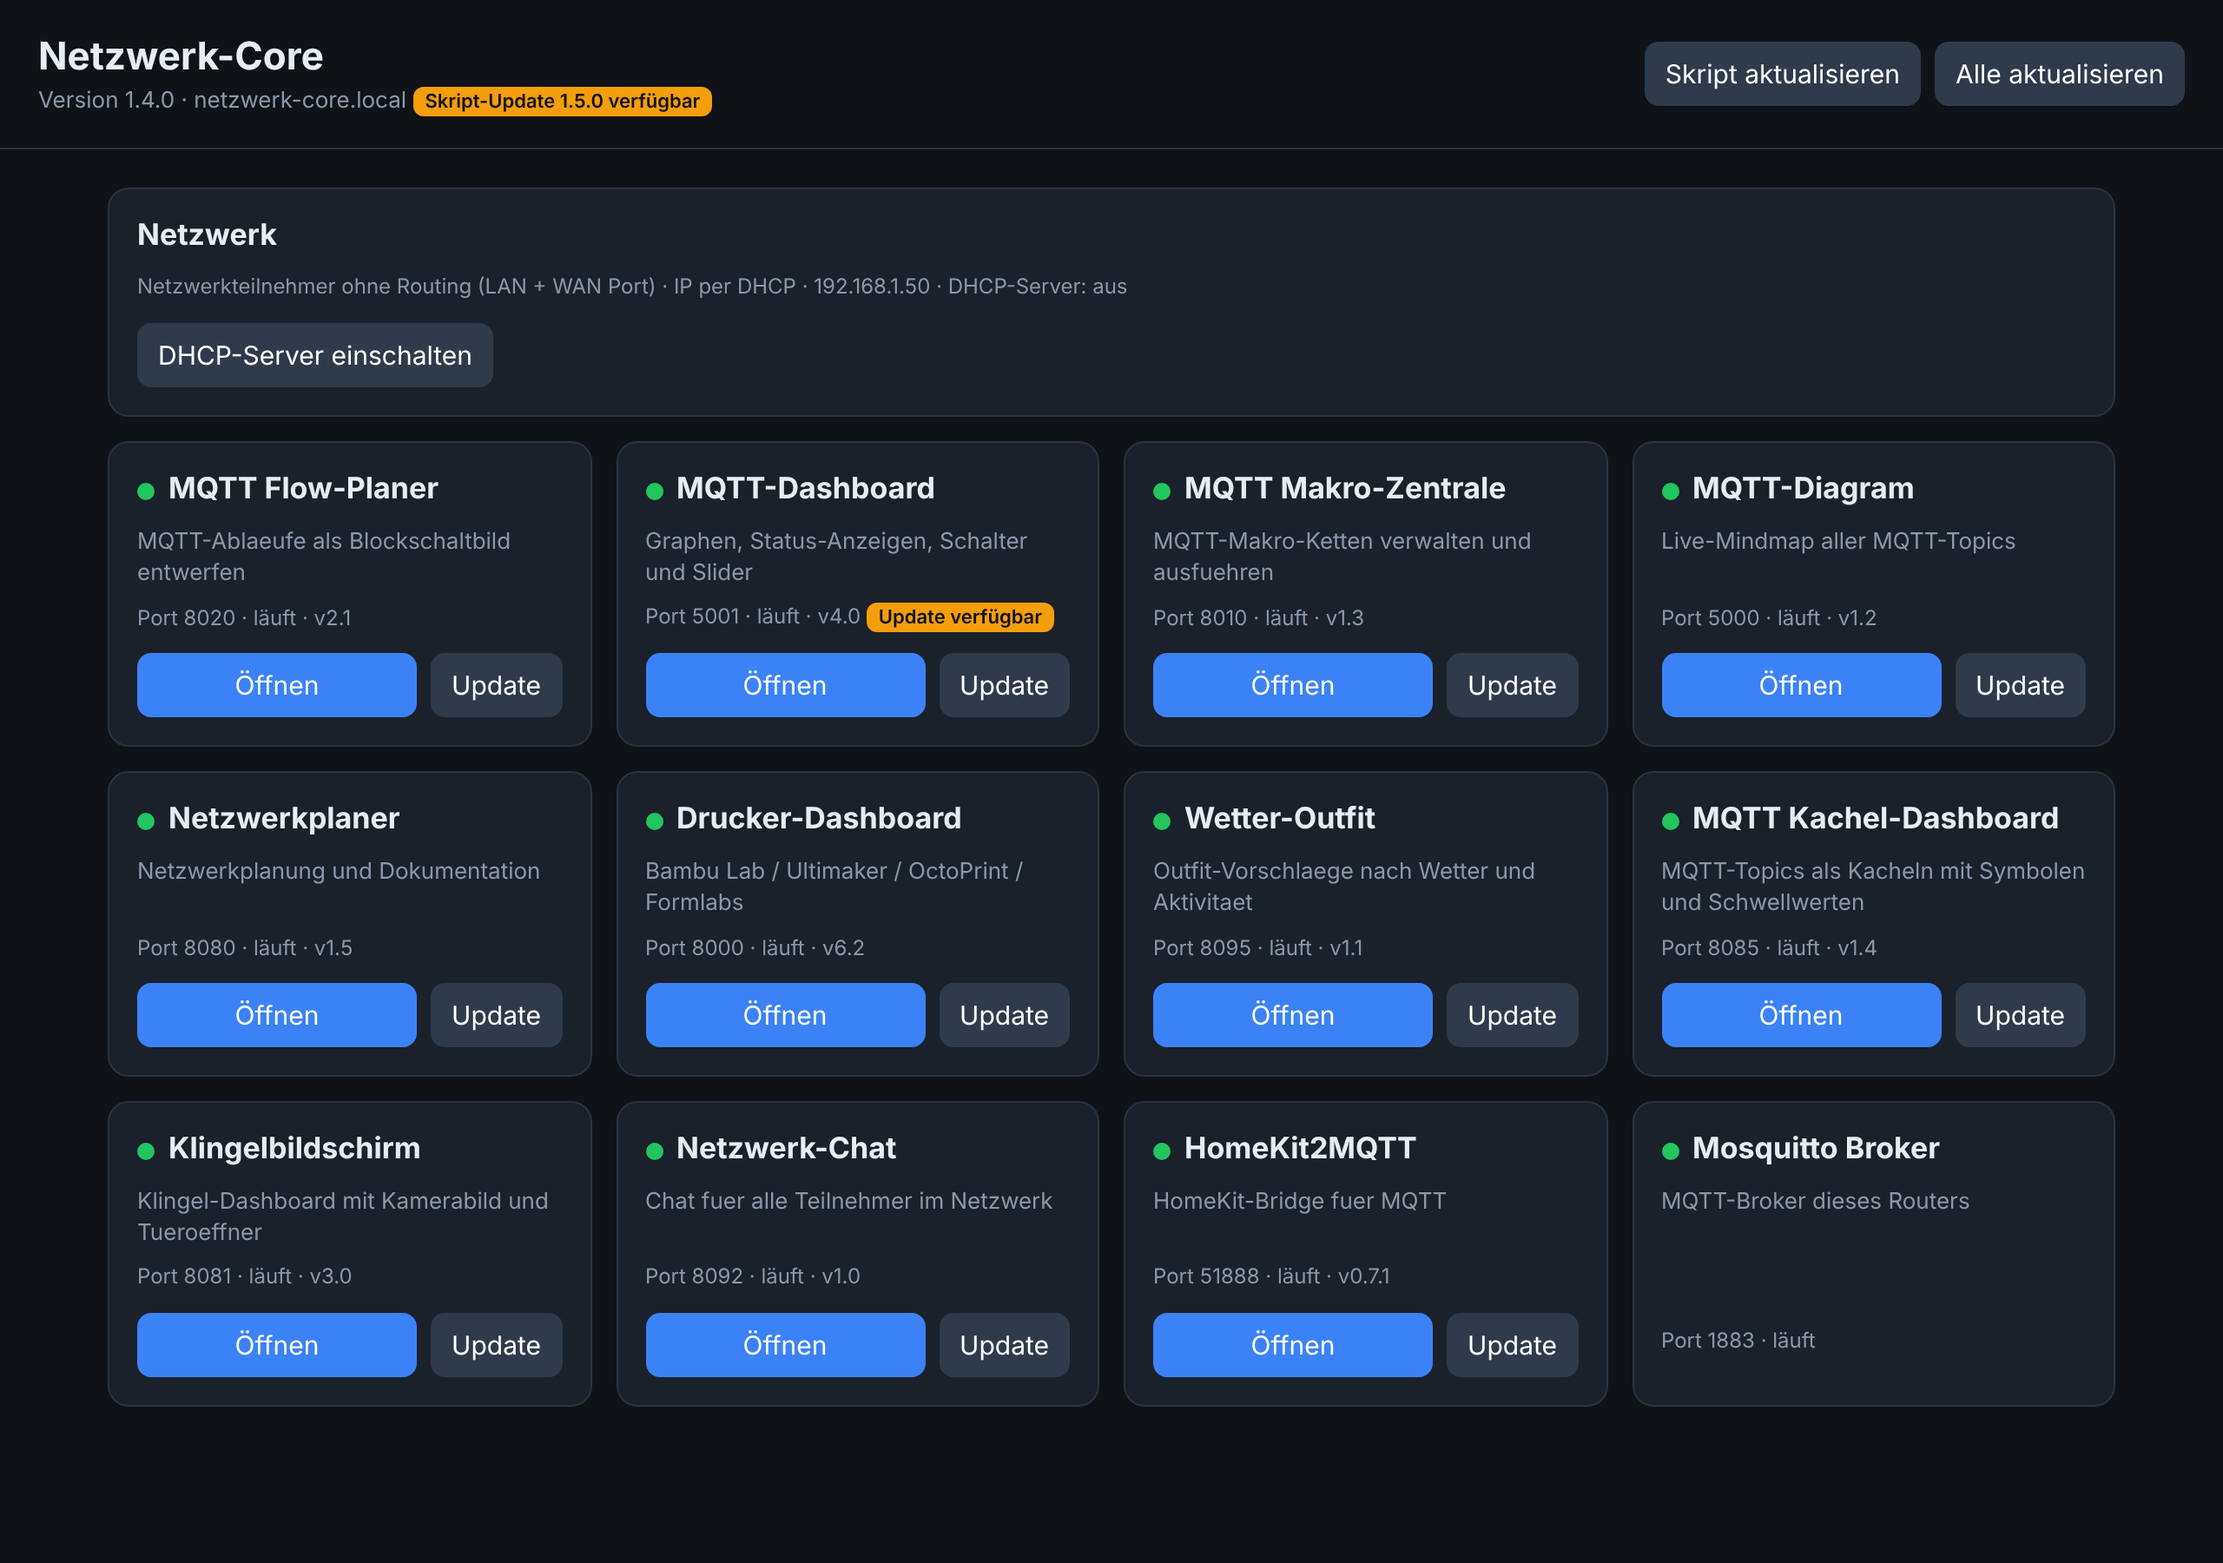
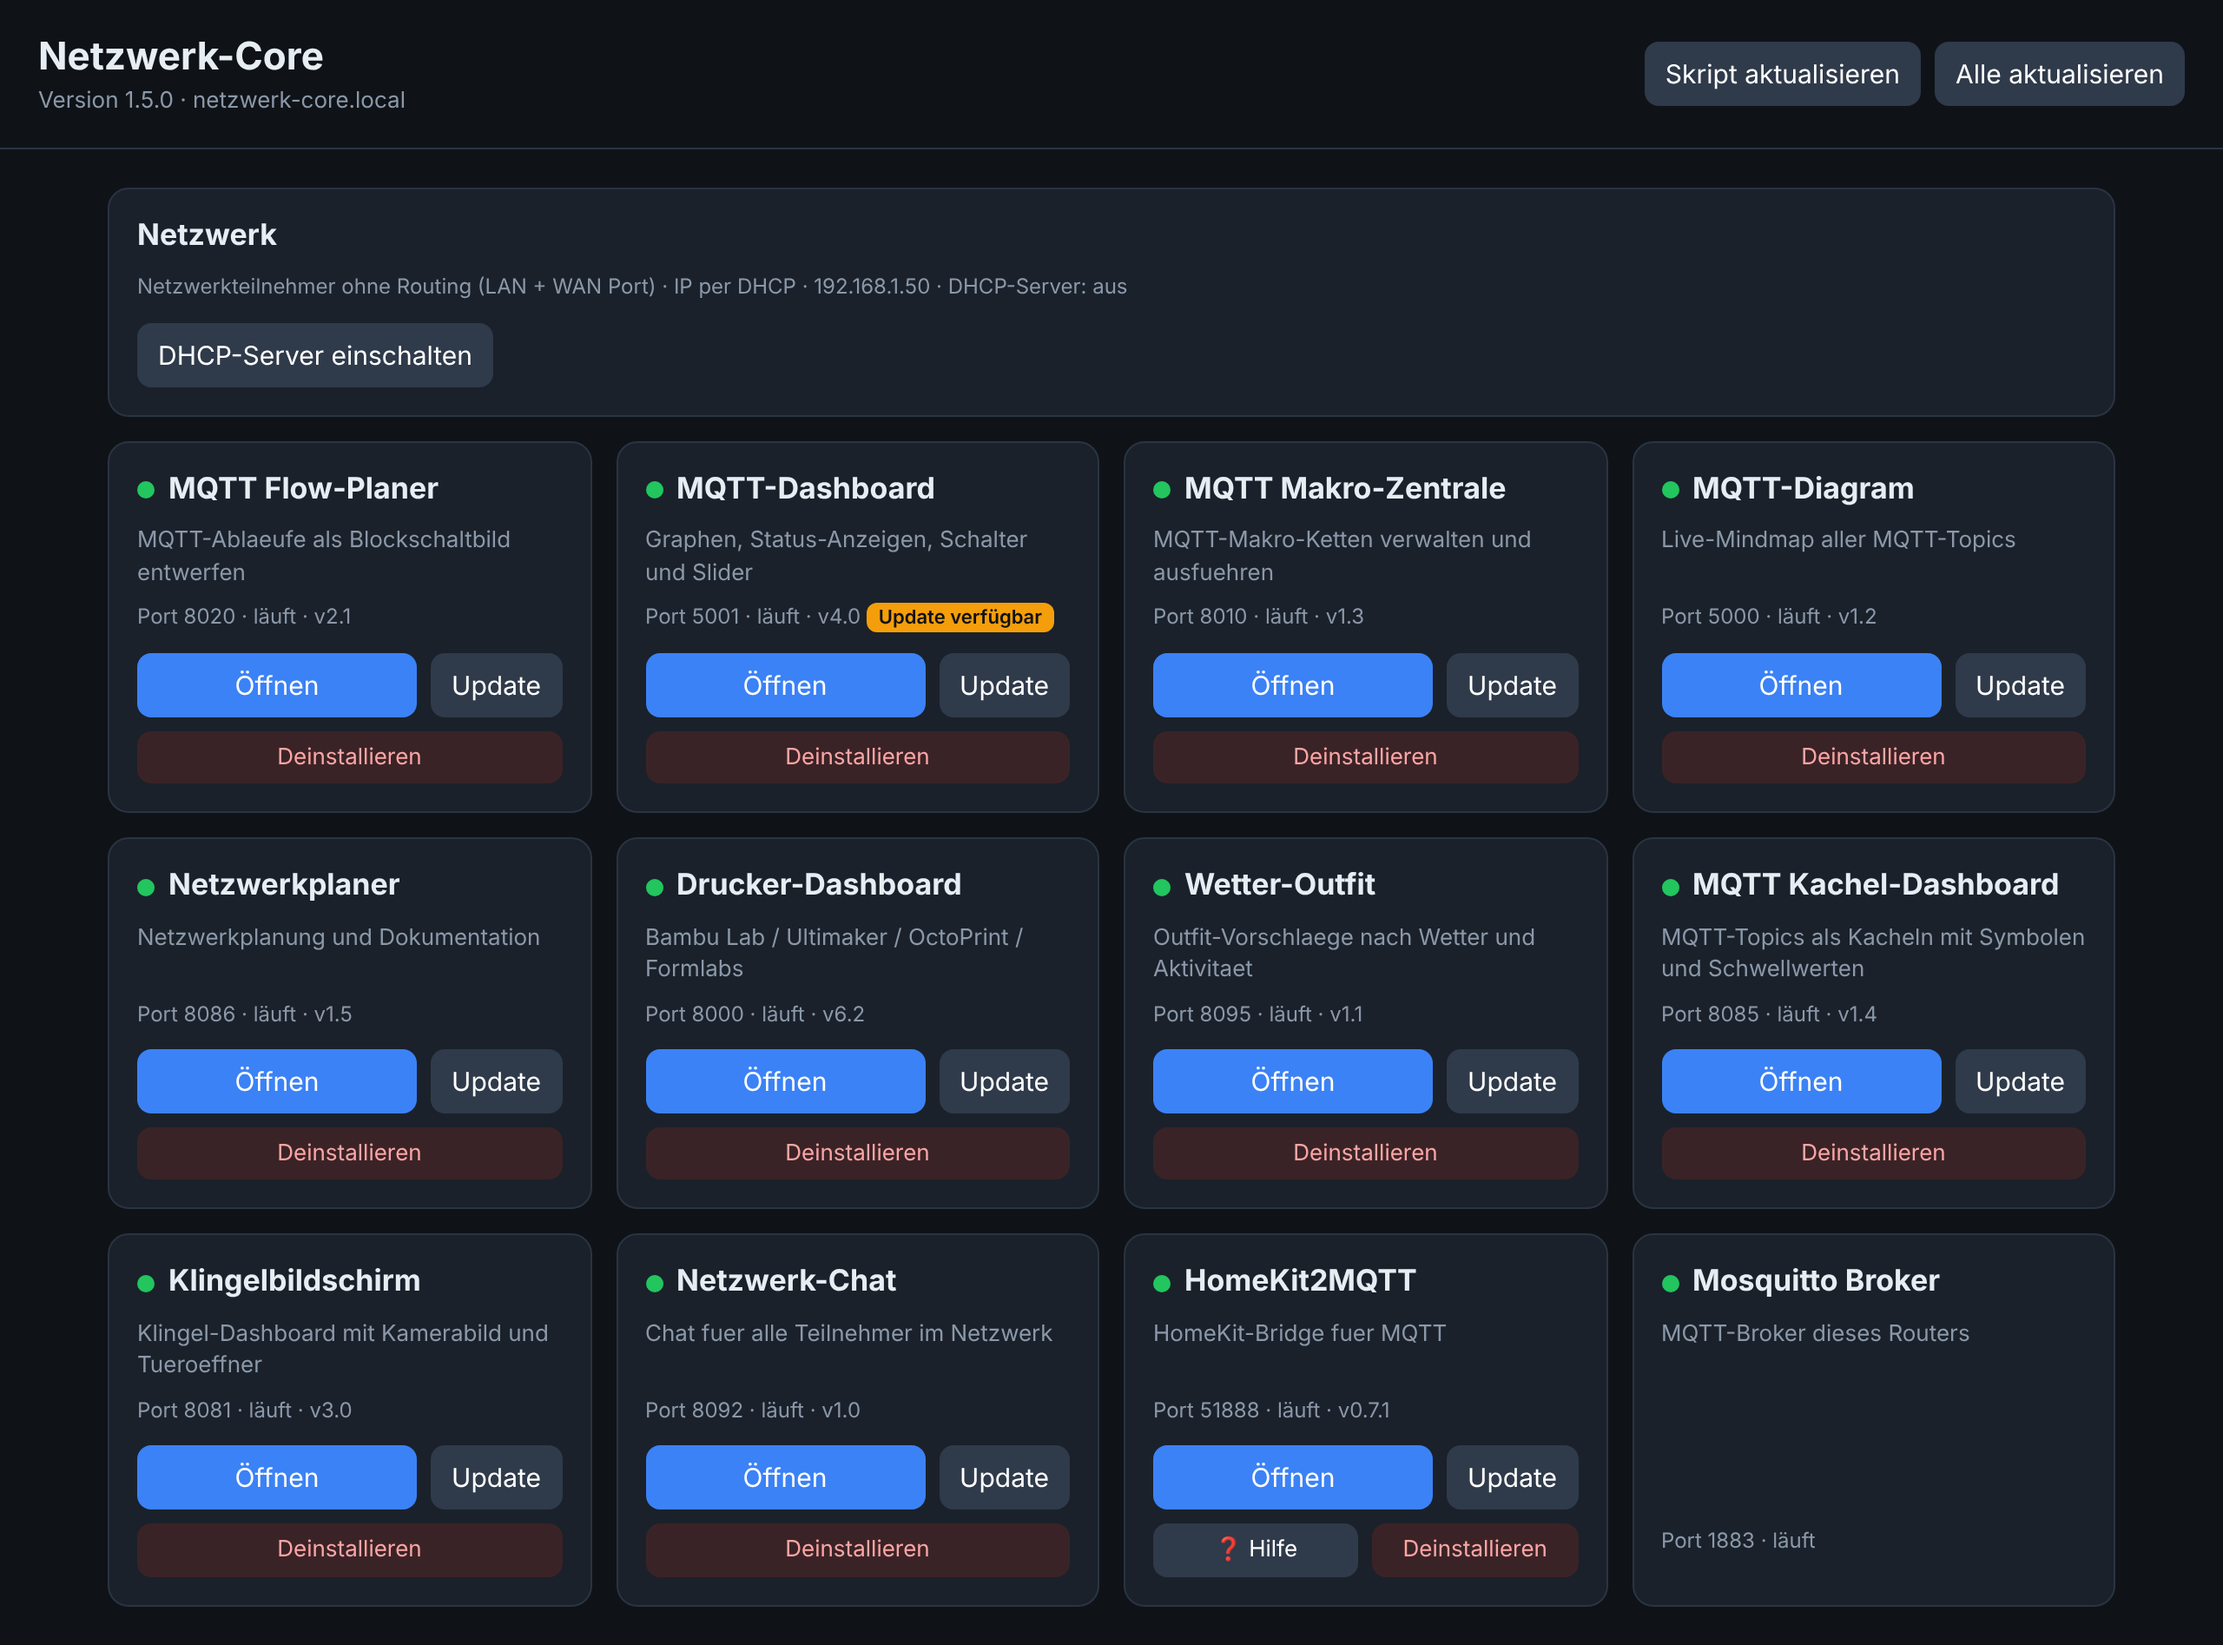
v1.5.0
Dienste deinstallieren, Portkonflikt, Versionsanzeige, HomeKit-Hilfe (v1.5.0)

- Button "Deinstallieren" je Kachel (Daten behalten oder loeschen),
  entfernte Dienste werden bei Updates uebersprungen
- Netzwerkplaner auf Port 8086 (8080 kollidiert mit Router-Oberflaeche)
- Versionserkennung erweitert (VERSION in .py, VERSION-Datei, CHANGELOG)
- HomeKit2MQTT: Hilfe-Fenster mit Einrichtung und aktuellen Zugangsdaten
- README und Screenshots aktualisiert

diff --git a/README.md b/README.md
@@ -16,7 +16,7 @@ Ein-Klick-Einrichtung für einen **GL.iNet Brume 2 (GL-MT2500, OpenWrt)**: Das S
 | MQTT-Dashboard (MK4) | 5001 |
 | MQTT Makro-Zentrale | 8010 |
 | MQTT-Diagram | 5000 |
-| Netzwerkplaner | 8080 |
+| Netzwerkplaner | 8086 (nicht 8080: dort läuft die Router-Oberfläche) |
 | Drucker-Dashboard (BambuLab MK6) | 8000 |
 | Wetter-Outfit | 8095 |
 | MQTT Kachel-Dashboard | 8085 |
@@ -55,6 +55,13 @@ Am Ende stellt das Skript den Router auf **Netzwerkteilnehmer ohne Routing** um:
 > Die Versionen vor 1.4.0 kennen den Update-Modus noch nicht: Einmalig die neue Version manuell ausführen, danach geht es per Button.
 
 Manuell im Update-Modus: `NC_SELF_UPDATE=1 sh netzwerk-core-install.sh`
+
+## Dienste deinstallieren und Hilfe
+
+- **Deinstallieren:** Jede Kachel hat einen Button *Deinstallieren*. Autostart und Dienst werden entfernt; auf Wunsch werden auch Einstellungen und Daten gelöscht (sonst bleiben sie für eine spätere Neuinstallation erhalten). Deinstallierte Dienste werden von *Alle aktualisieren* und beim Skript-Update nicht wieder installiert; mit *Installieren* auf der Kachel kommen sie zurück.
+- **HomeKit2MQTT-Hilfe:** Die Kachel hat einen Button *Hilfe* mit der Einrichtung Schritt für Schritt und den aktuellen Zugangsdaten (HomeKit-Code, Bridge-ID, Web-Login, Ports).
+
+![HomeKit2MQTT-Hilfe](docs/homekit-hilfe.png)
 
 ## Neue Anwendung hinzufügen
 
